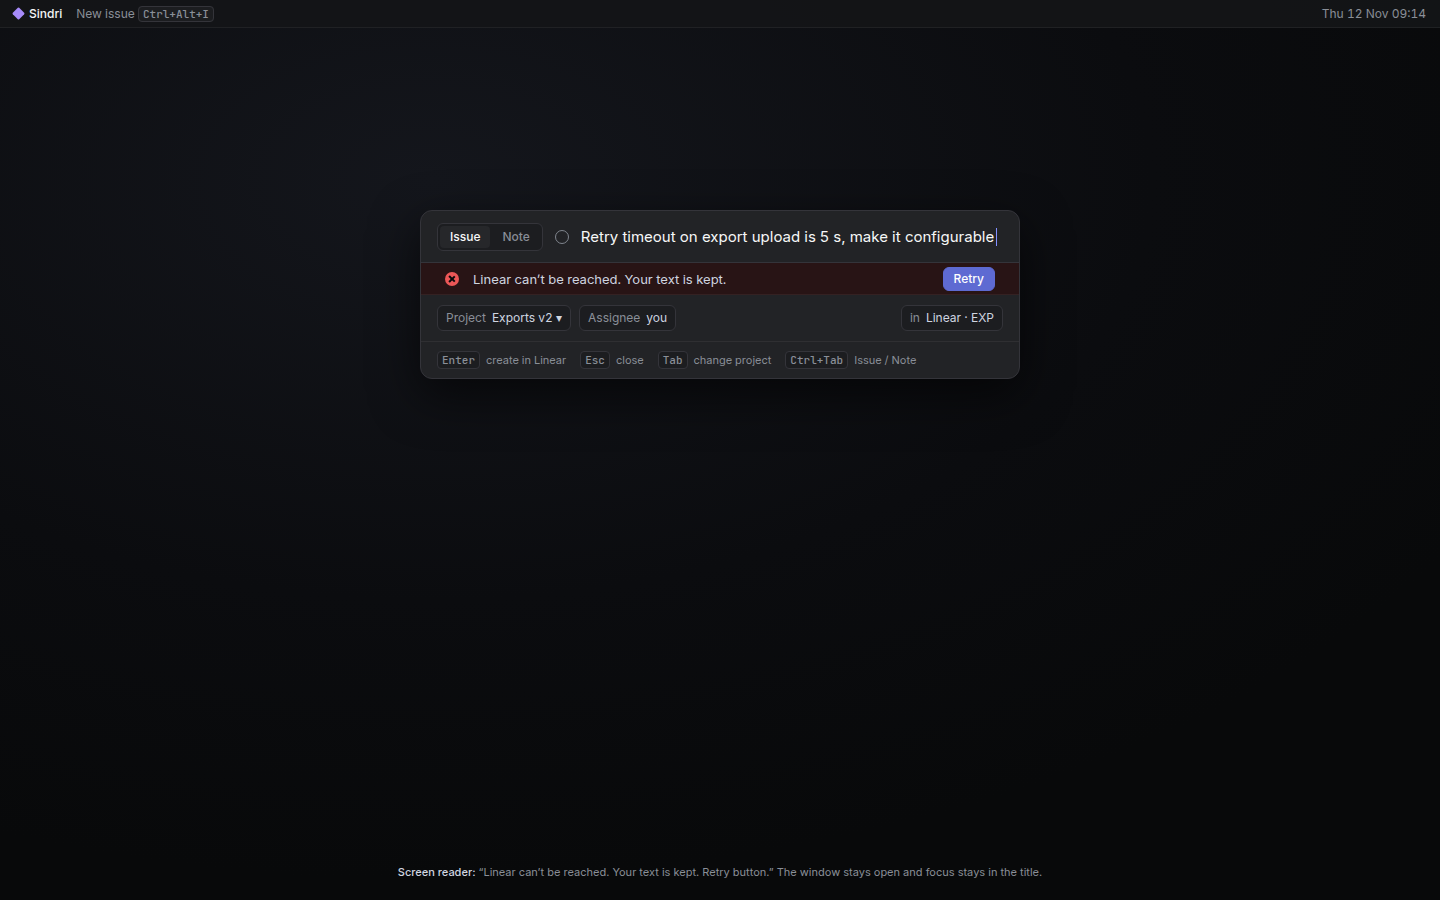
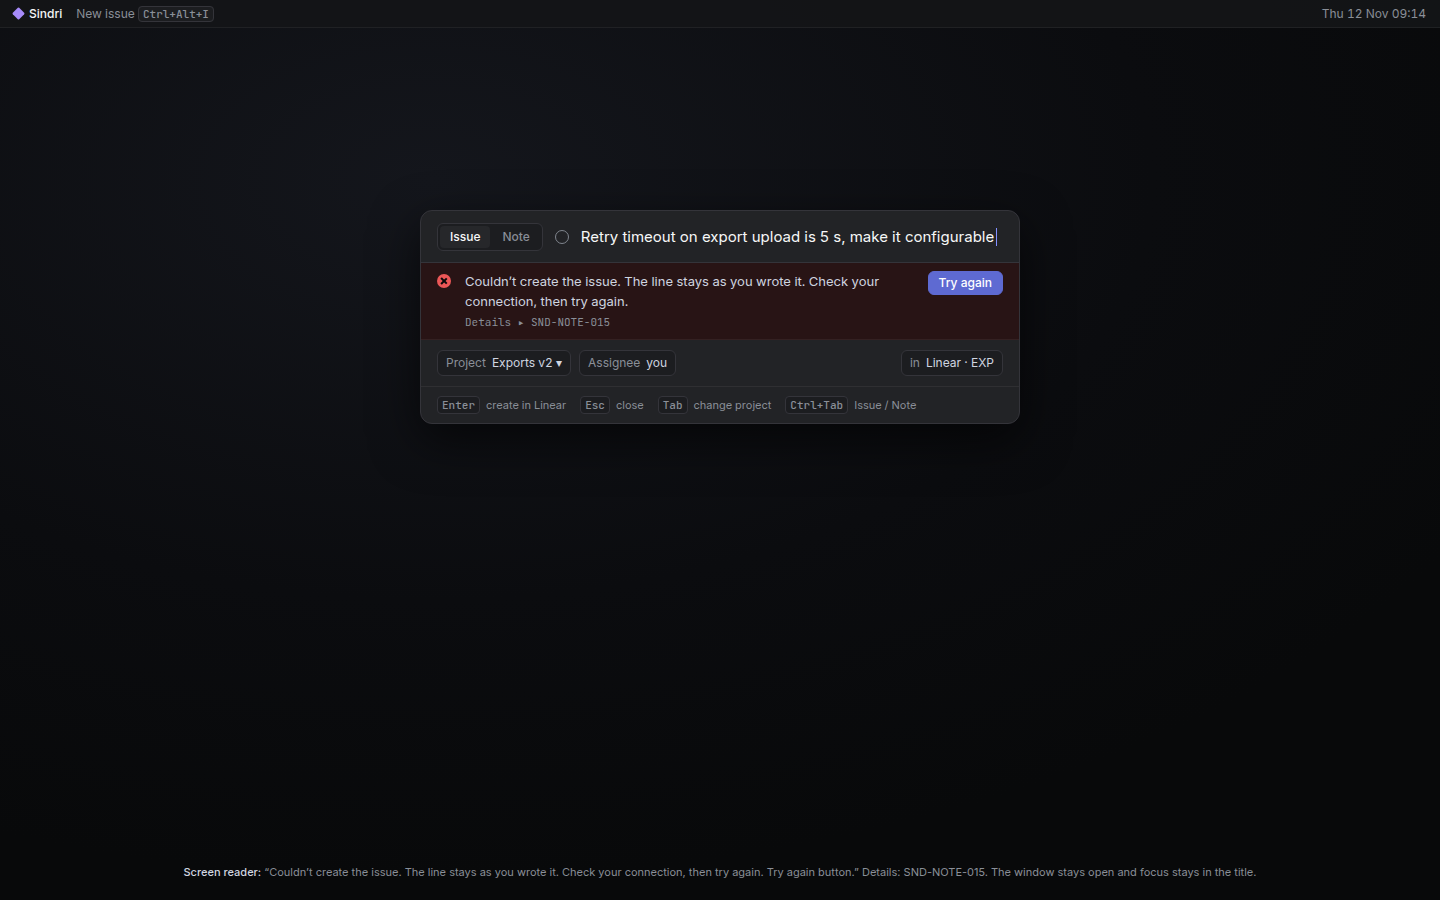
design: Projects create-window error uses the make-issue sentence and SND-NOTE-015

Changed region(s): [[0.3125, 0.28, 0.7188, 0.4667], [0.125, 0.9644, 0.875, 0.9956]]

diff --git a/gen.py b/gen.py
@@ -241,8 +241,8 @@ NOTE0 = NOTE1.replace('Ctrl+Tab switches the kind. The window opens on the last 
 write('create-window', desk(CW + NOTE1, '“New issue, dialog. Kind switch, Issue selected, 1 of 2. Issue title, edit text. Project Exports v2. Assignee you.” Control Tab switches kind; Enter creates, Escape closes.'))
 write('create-window-no-switch', desk(CWNS + NOTE0, '“New issue, dialog. Issue title, edit text. Project Exports v2. Assignee you.” There is no kind switch until a notes folder is set.'))
 write('create-window-empty', desk(CW.replace('Retry timeout on export upload is 5 s, make it configurable<span class="caret" style="display:inline-block;vertical-align:-4px;margin-left:2px"></span>', '<span class="t ph" style="color:var(--ink-subtle)">Issue title</span>'), '“New issue, dialog. Issue title, edit text, empty.”'))
-CWERR = CW.replace('<div class="pre">', '<div class="state-line err" style="margin:0;border-radius:0"><span class="g fail"></span><span class="what">Linear can’t be reached. Your text is kept.</span><span class="btns">' + btn('Retry', True) + '</span></div><div class="pre">')
-write('create-window-error', desk(CWERR, '“Linear can’t be reached. Your text is kept. Retry button.” The window stays open and focus stays in the title.'))
+CWERR = CW.replace('<div class="pre">', '<div class="state-line err" style="margin:0;border-radius:0;height:auto;padding:8px 16px;align-items:start"><span class="g fail" style="margin-top:3px"></span><span class="what" style="white-space:normal;overflow:visible">Couldn’t create the issue. The line stays as you wrote it. Check your connection, then try again.<br><span class="det" style="font:400 11px/16px var(--mono);margin:0">Details ▸ SND-NOTE-015</span></span><span class="btns">' + btn('Try again', True) + '</span></div><div class="pre">')
+write('create-window-error', desk(CWERR, '“Couldn’t create the issue. The line stays as you wrote it. Check your connection, then try again. Try again button.” Details: SND-NOTE-015. The window stays open and focus stays in the title.'))
 write('create-window-done', desk('<div class="notif"><div class="h">Sindri</div><div>Created <span class="id">EXP-437</span> in Exports v2</div><div style="color:var(--ink-subtle);font-size:12px">Retry timeout on export upload is 5 s, make it configurable</div><div class="acts">' + btn('Open in Linear') + btn('Copy link') + '</div></div>', '“Notification: Created EXP-437 in Exports v2. Actions: Open in Linear, Copy link.”'))
 
 # ================= #3170 Settings: the shortcut the system refused =================
